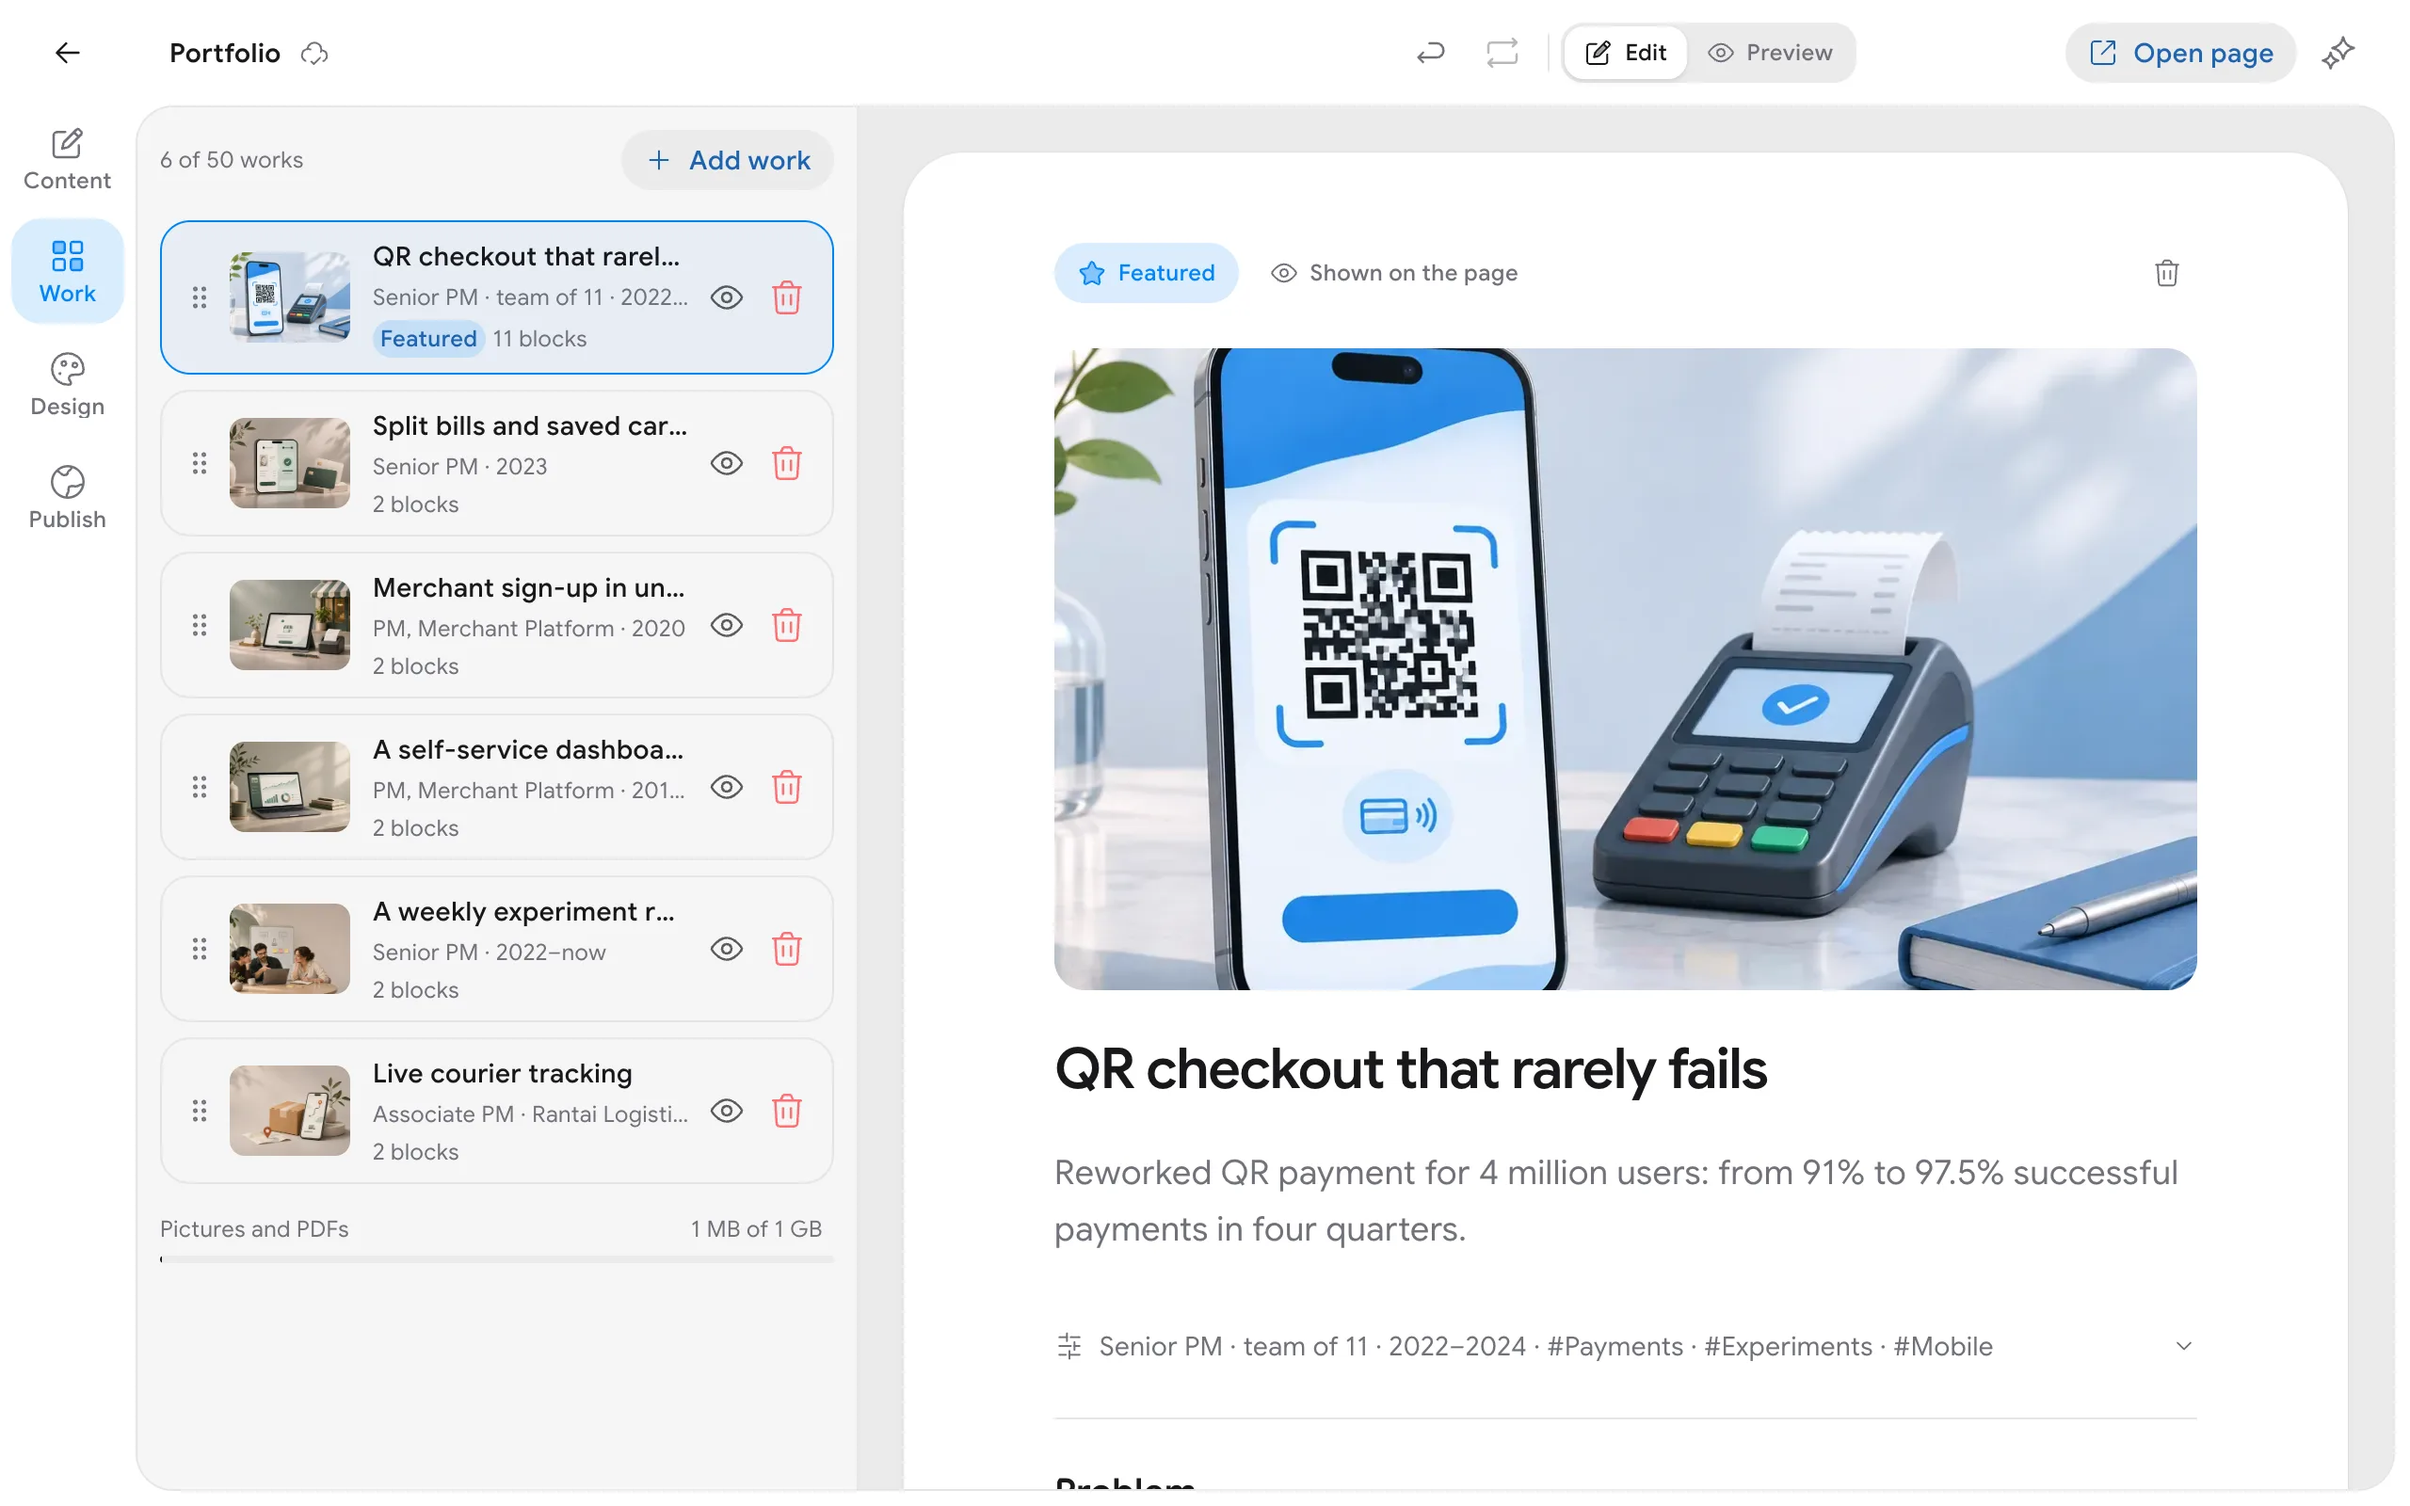
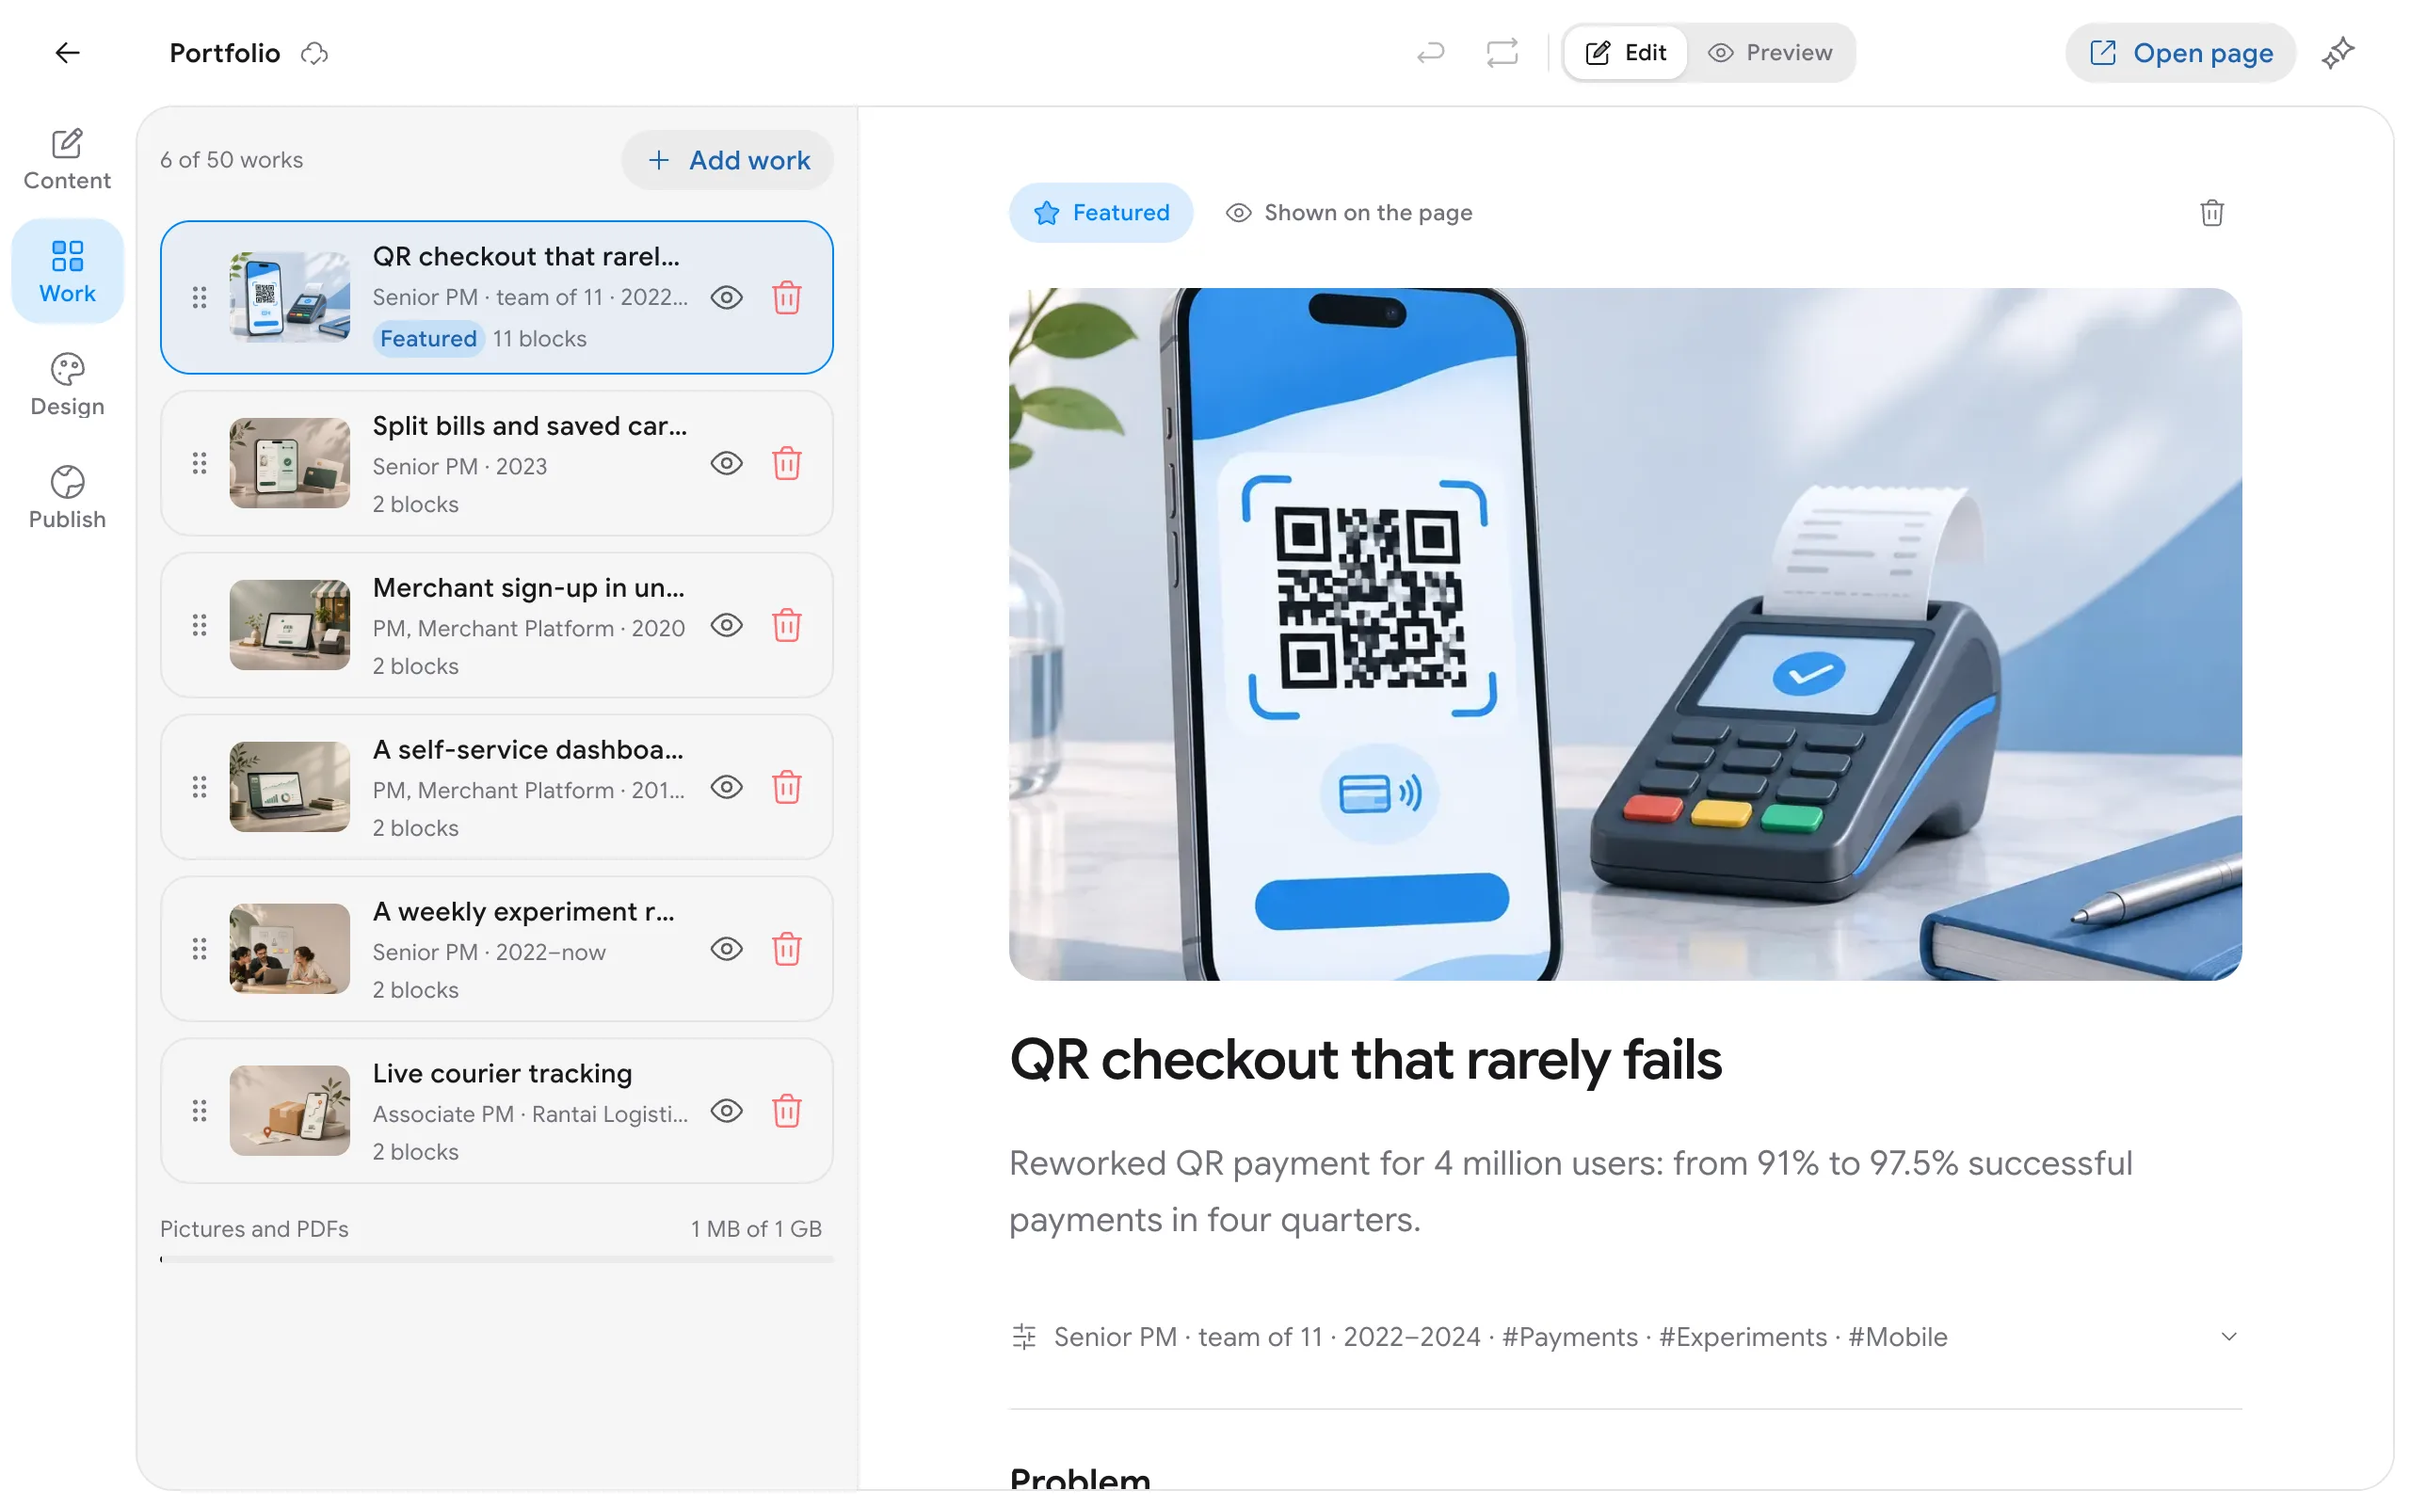
feat(web): write portfolio works straight on the surface, without a sheet
Work's Edit canvas drops the white card on the gray canvas: the document
sits on the plain surface with a centered reading column, so it reads apart
from Preview's page at a glance. The guide's screenshot follows.

diff --git a/apps/web/src/features/portfolio/works/work-canvas.tsx b/apps/web/src/features/portfolio/works/work-canvas.tsx
@@ -13,8 +13,9 @@ type WorkCanvasProps = {
 };
 
 /**
- * Work's canvas: the open work as a document to write in (Edit), or its page as visitors see it (Preview). The
- * document sits on a sheet in the middle of the canvas, with room at its sides for each block's handle and AI.
+ * Work's canvas: the open work as a document to write in (Edit), or its page as visitors see it (Preview). Edit is
+ * the plain surface, no sheet on the gray canvas, so it reads apart from Preview's page at a glance; the text keeps a
+ * readable column in the middle, with room at its sides for each block's handle and AI.
  */
 export function WorkCanvas({ preview }: WorkCanvasProps) {
 	const view = usePortfolioEditorUi((state) => state.workView);
@@ -44,15 +45,13 @@ export function WorkCanvas({ preview }: WorkCanvasProps) {
 
 	return (
 		// Keyed by work: another work starts at its top.
-		<div key={open.id} className="size-full scrollbar-thin overflow-y-auto">
-			<div className="mx-auto w-full max-w-[56rem] px-3 py-6 sm:px-6">
-				<article
-					aria-label={t`Writing ${open.title.trim() || t`Untitled work`}`}
-					className="work-doc @container rounded-[calc(var(--radius)*4)] bg-surface px-5 py-8 shadow-surface sm:px-20 sm:py-12"
-				>
-					<WorkDocument workId={open.id} />
-				</article>
-			</div>
+		<div key={open.id} className="size-full scrollbar-thin overflow-y-auto bg-surface">
+			<article
+				aria-label={t`Writing ${open.title.trim() || t`Untitled work`}`}
+				className="work-doc @container mx-auto w-full max-w-[52rem] px-6 pt-10 pb-24 sm:px-20"
+			>
+				<WorkDocument workId={open.id} />
+			</article>
 		</div>
 	);
 }
